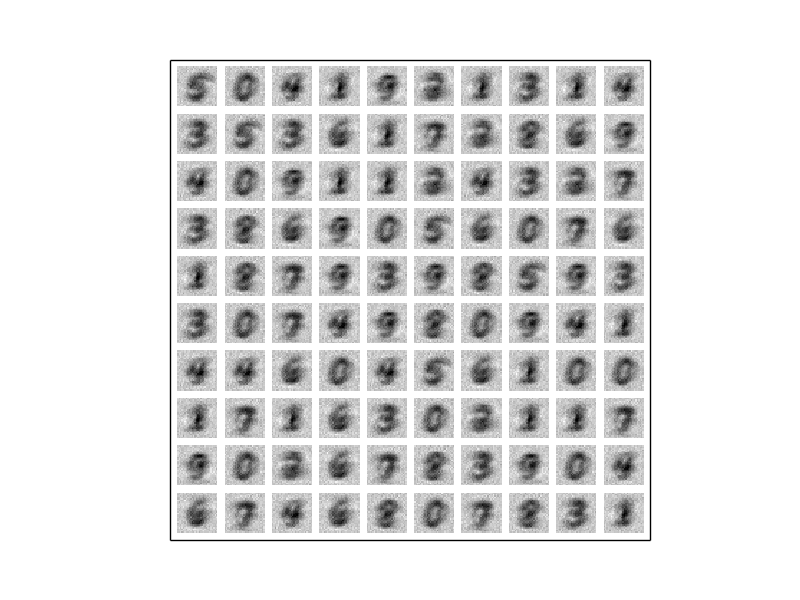
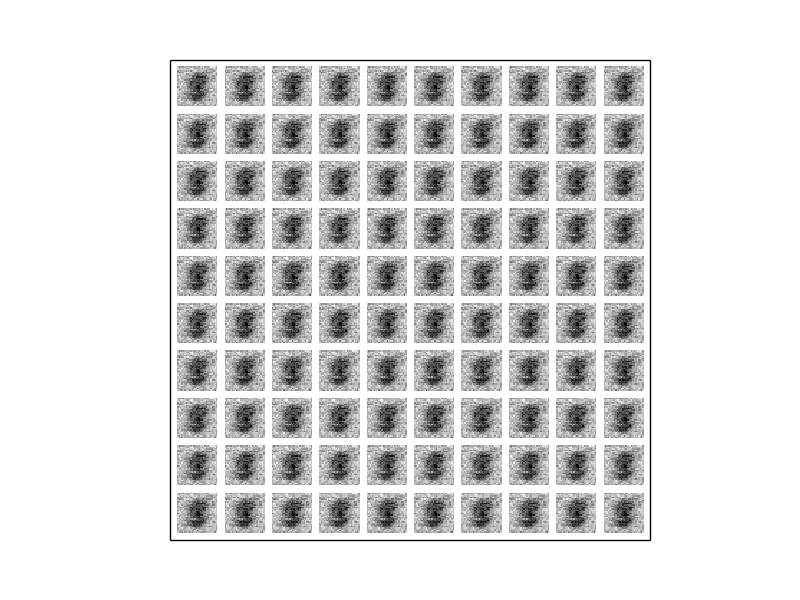
added noise to plots (but commented it out because it doesn't work well)

Changed region(s): [[0.2188, 0.09, 0.8125, 0.9]]

diff --git a/experiments/10-conditional-autoencoder/4-sample-banded-prior/main.py b/experiments/10-conditional-autoencoder/4-sample-banded-prior/main.py
@@ -27,7 +27,7 @@ def run_variational_network(train_images,N_weights_dec,decoder,decoder_log_like,
 
     D = train_images.shape[1]
 
-    enc_layers = [D, hidden_units, 2*latent_dimensions]
+    enc_layers = [D, hidden_units,hidden_units, 2*latent_dimensions]
 
     N_weights_enc, encoder, encoder_log_like = make_gaussian_nn(enc_layers)
 
@@ -41,7 +41,7 @@ def run_variational_network(train_images,N_weights_dec,decoder,decoder_log_like,
     initial_enc_w = rs.randn(len(parser)) * param_scale
 
     batch_idxs = make_batches(train_images.shape[0], batch_size)
-    banded_cov = create_banded_cov(all_cov.shape[0],100)
+    banded_cov = create_banded_cov(all_cov.shape[0],10)
     log_prior = build_logprob_mvn(all_mean, banded_cov)
     def batch_value_and_grad(enc_w, iter):
         iter = iter % len(batch_idxs)
@@ -55,8 +55,17 @@ def run_variational_network(train_images,N_weights_dec,decoder,decoder_log_like,
         #Generate samples
         num_samples = 100
         images_per_row = 10
-        zs = train_images[0:100,:]
-        samples = encoder(params, zs)[0]
+        # zs = train_images[0:100,:]
+        zs = np.zeros((100,10))
+        zs[:,1] = .5
+        zs[:,5] = .5
+        (mus,log_sigs) = encoder(params, zs)
+        # sigs = np.exp(log_sigs)
+        # noise = rs.randn(1,100,784)
+        # samples = mus + sigs*noise
+        # samples = np.reshape(samples,(100*1,784),order = 'F')
+        samples = mus
+
         fig = plt.figure(1)
         fig.clf()
         ax = fig.add_subplot(111)
